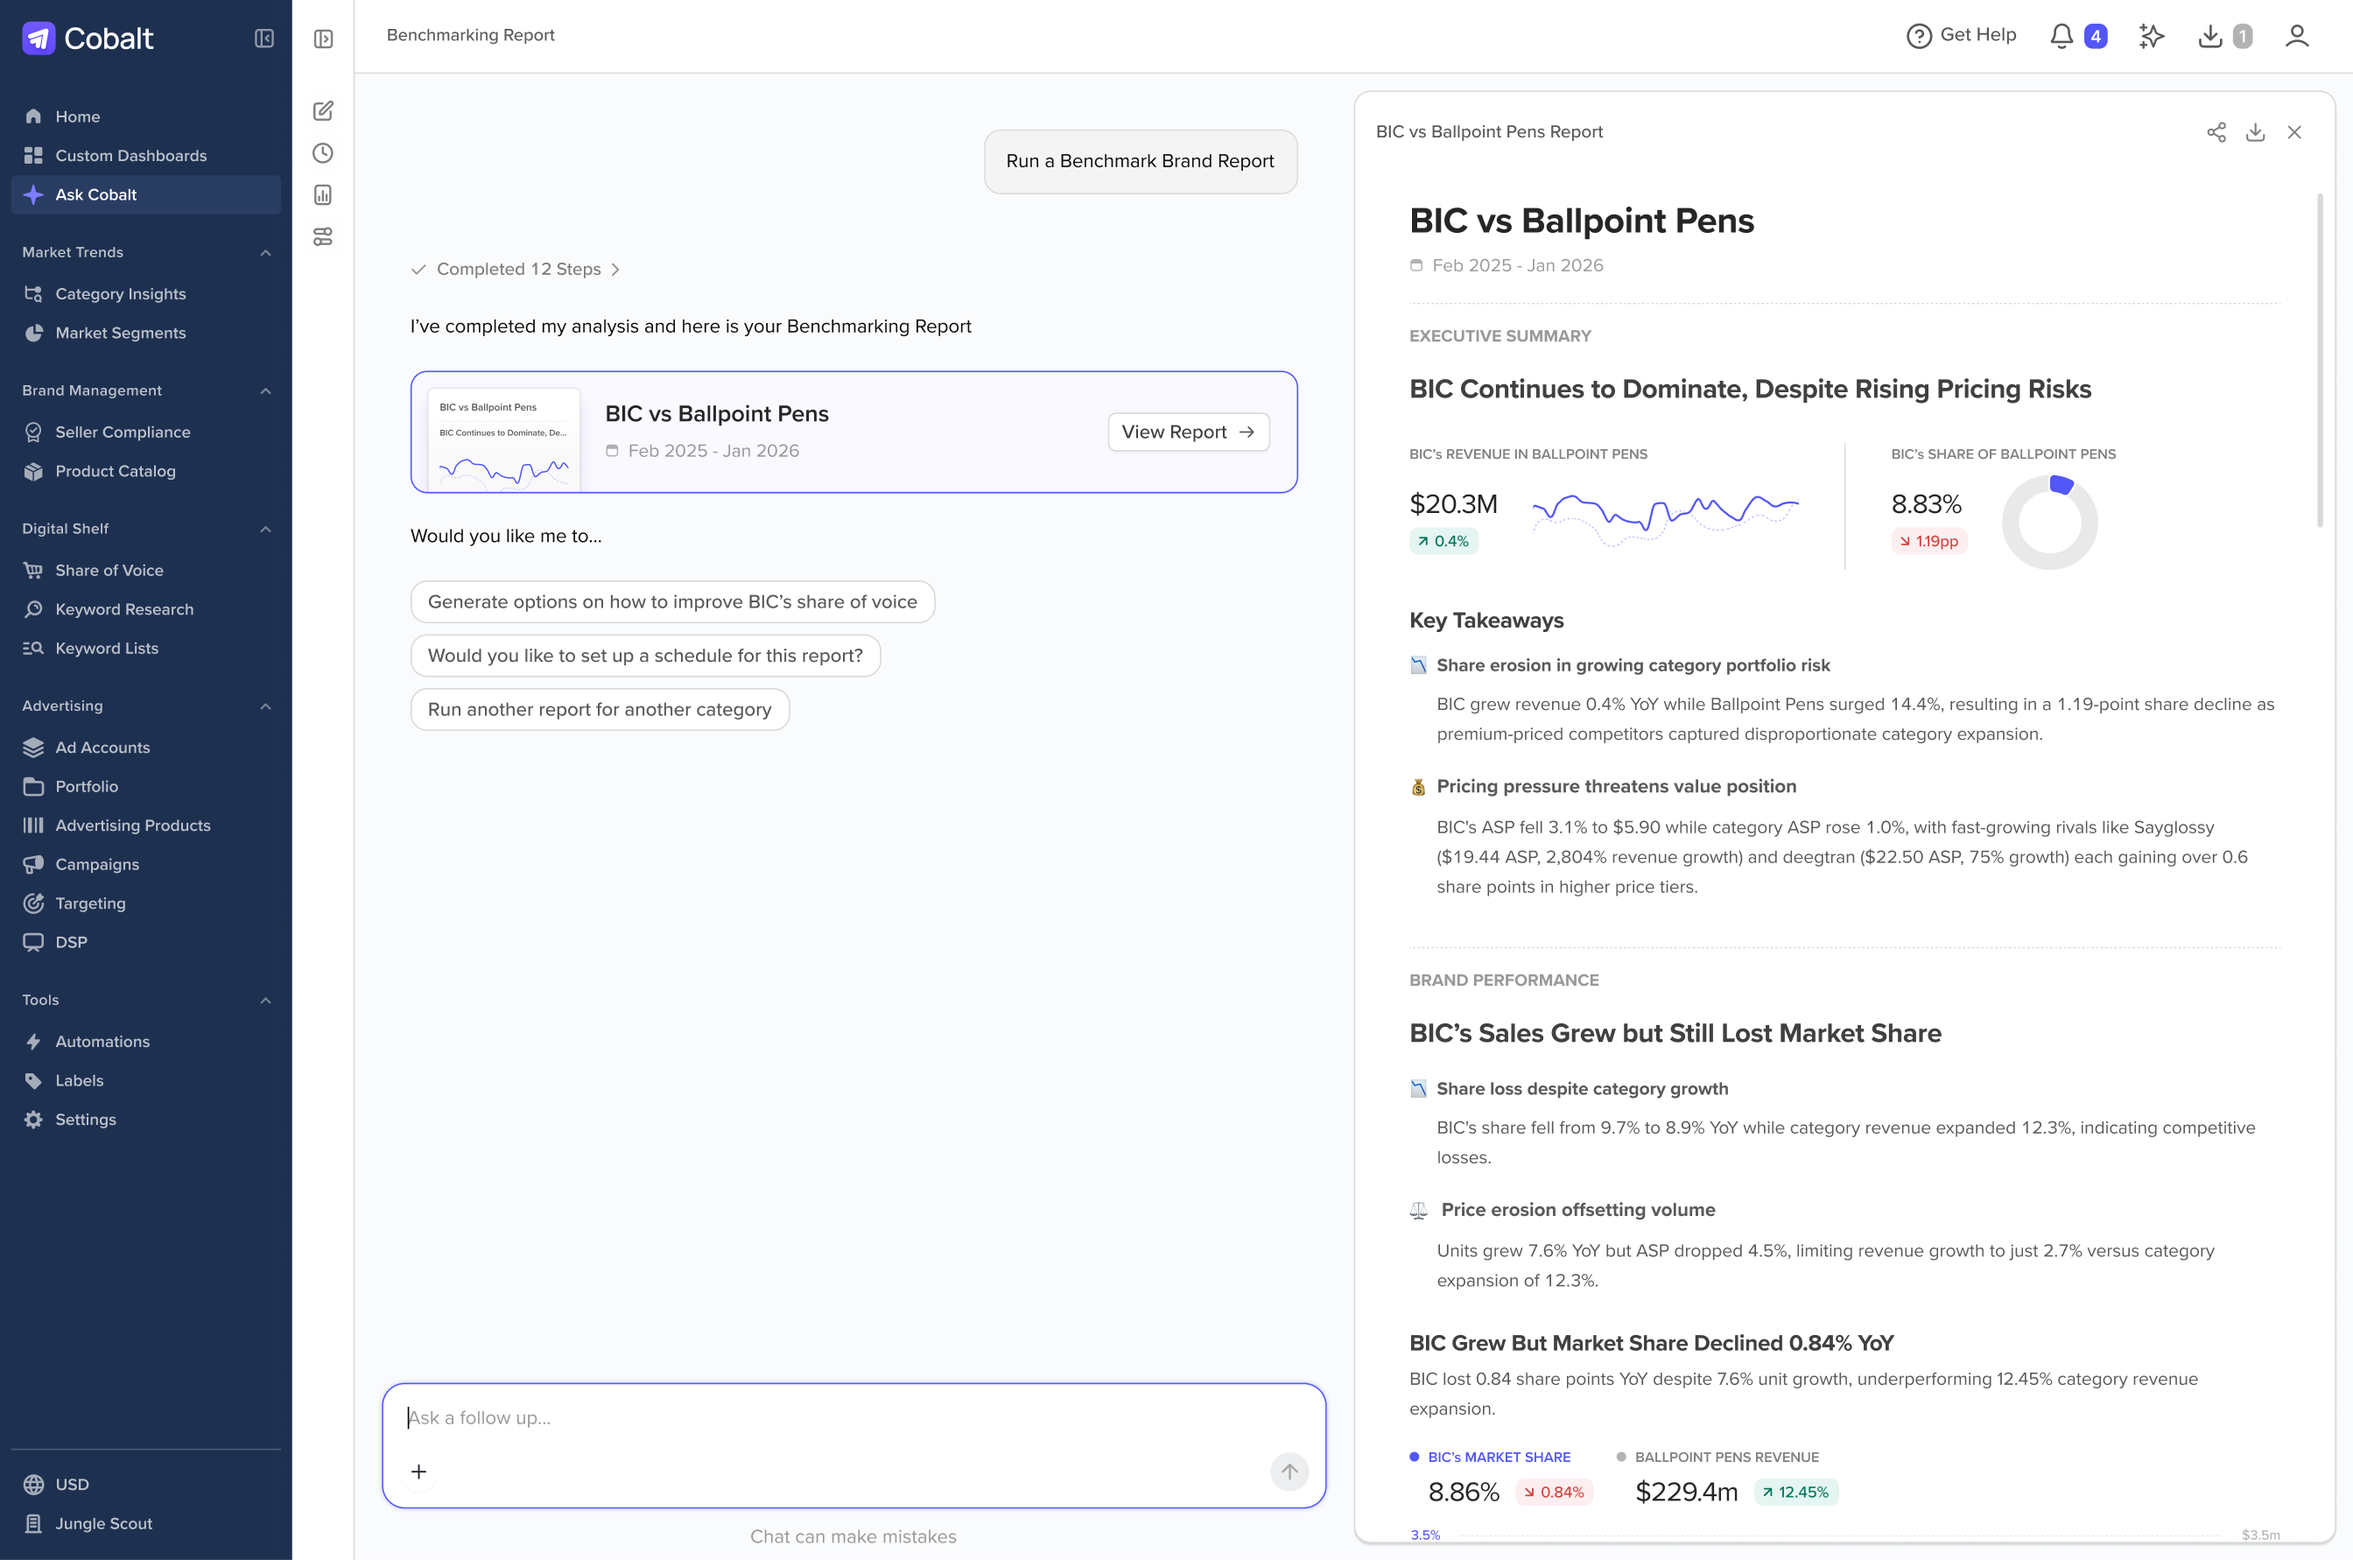
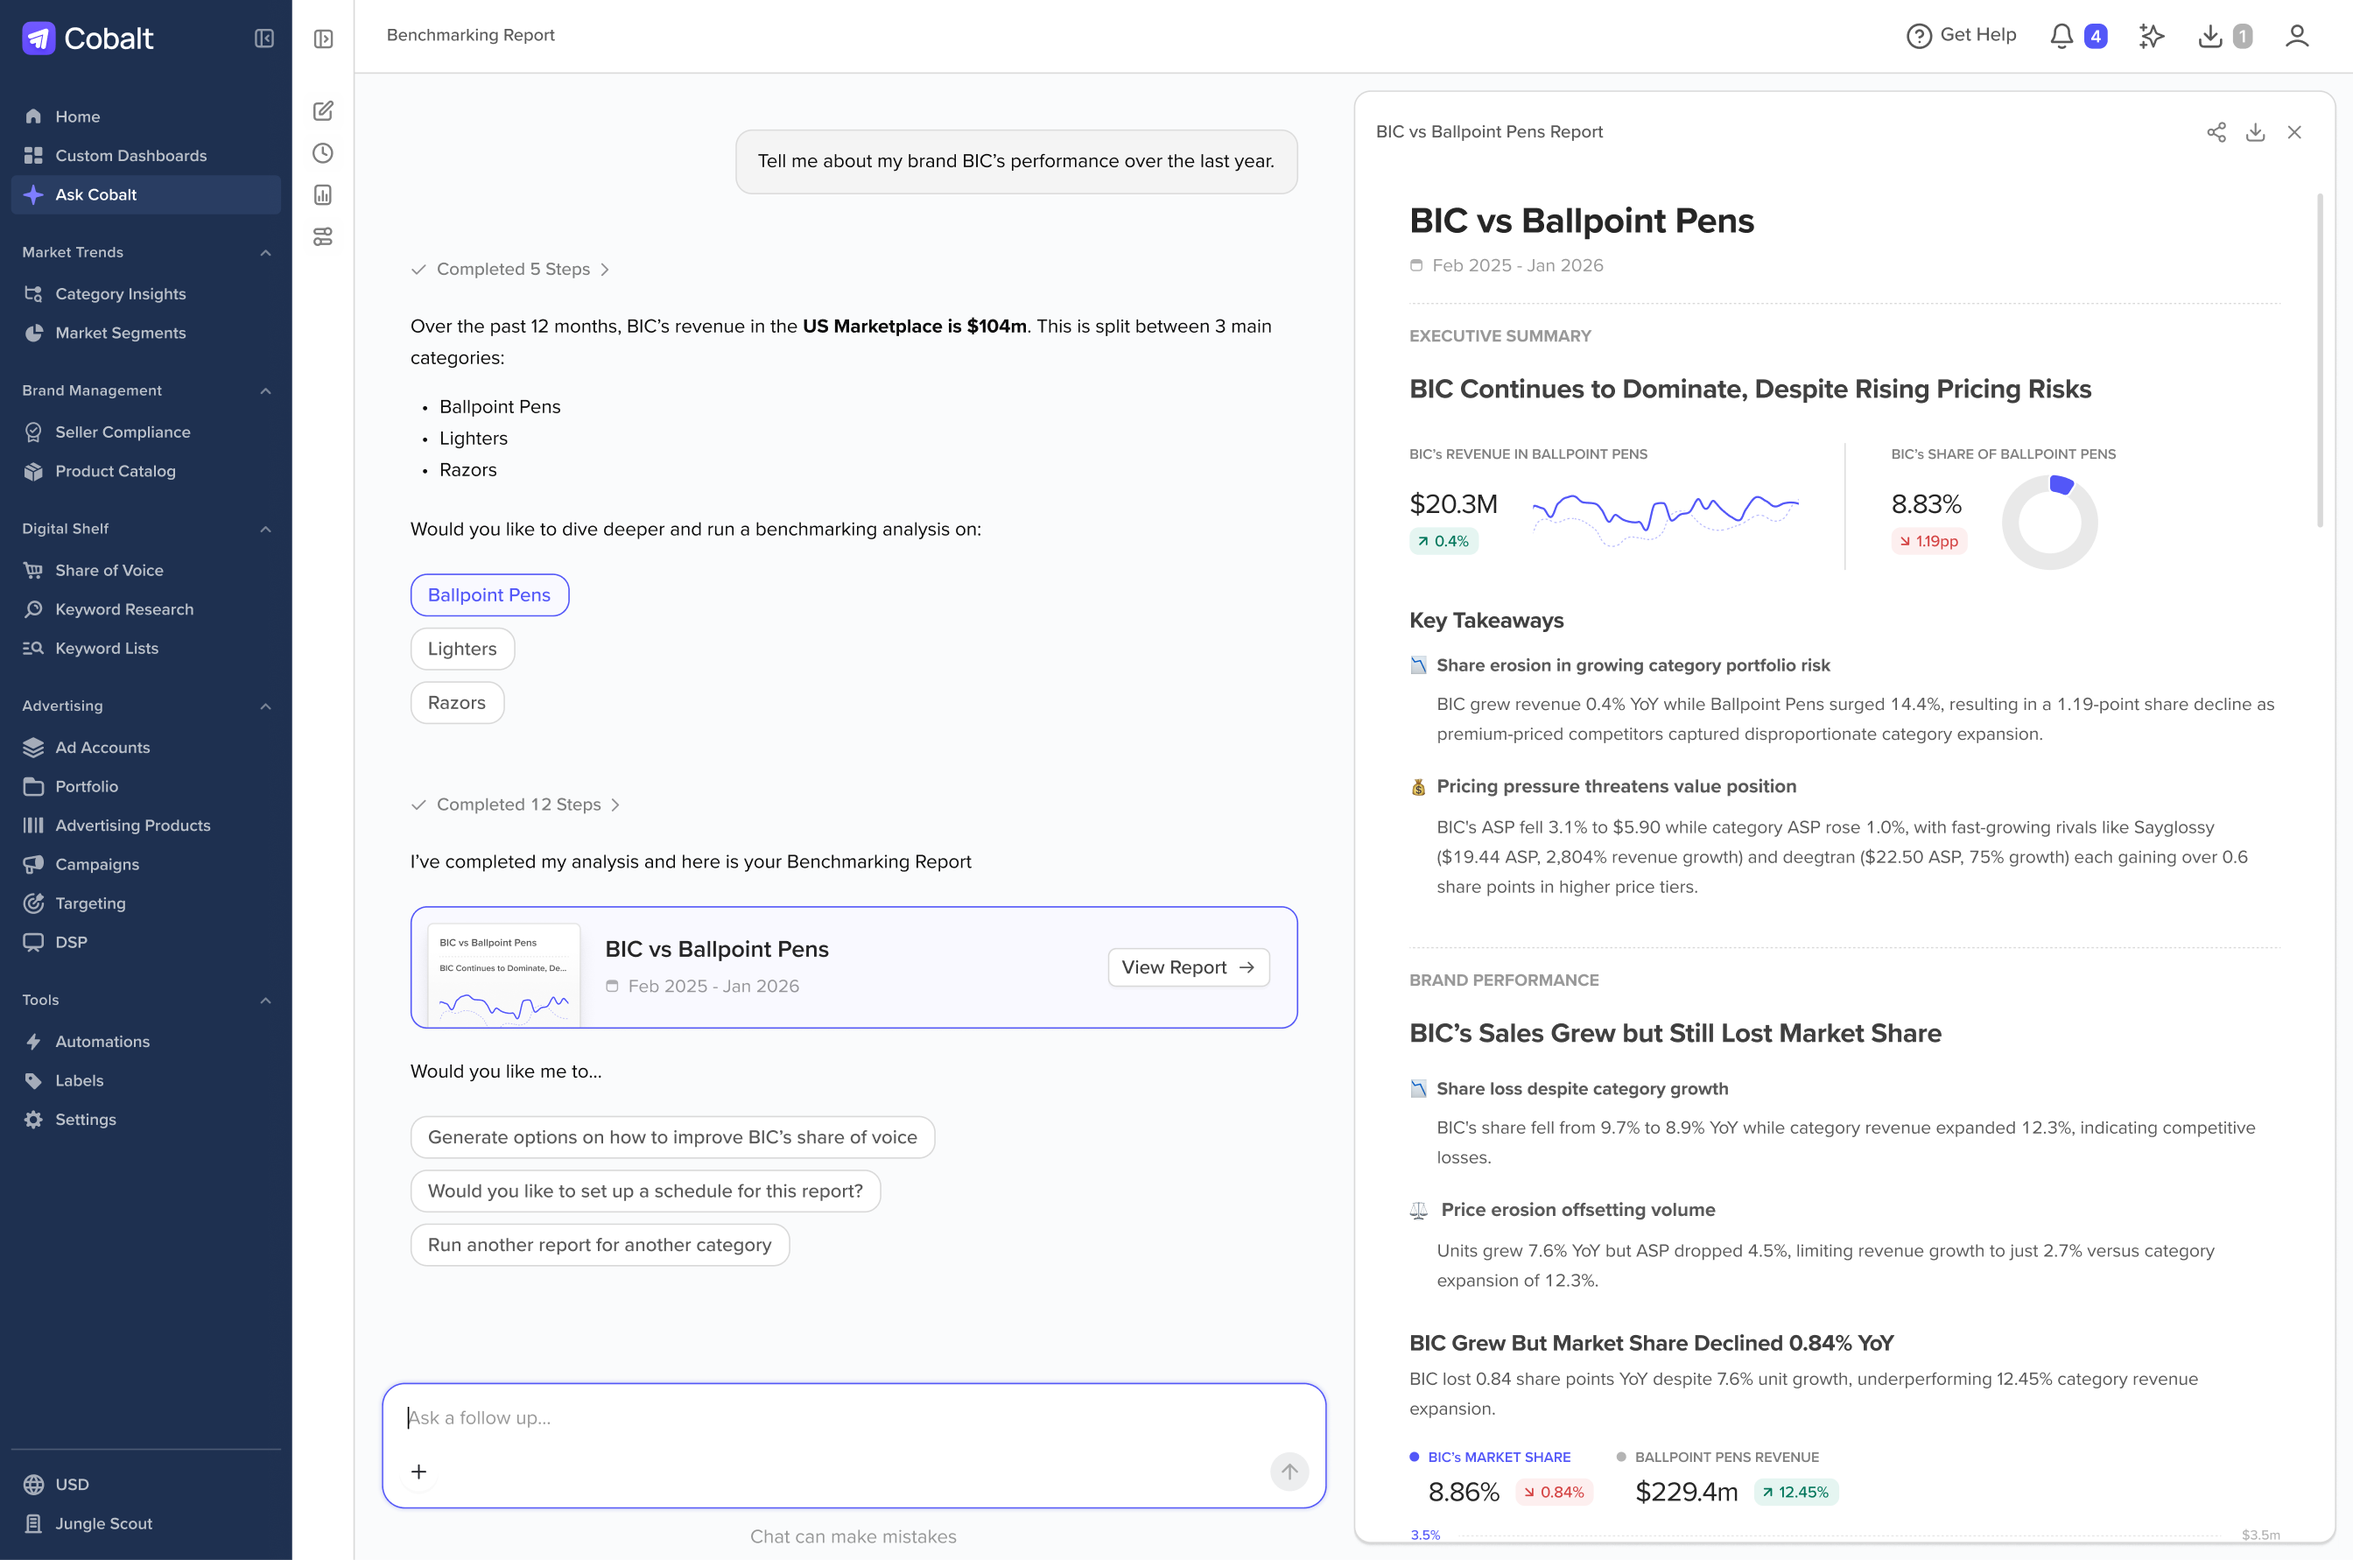
Update the Ask Cobalt case study to match the latest Figma copy and layout.

diff --git a/src/pages/AiAnalystWorkflowsPage.tsx b/src/pages/AiAnalystWorkflowsPage.tsx
@@ -9,6 +9,25 @@ const TEAM = ['John Arstingstall', 'Salim Hamed', 'Ivan Bernatovic']
 const ASSET = '/assets/Ask Cobalt'
 const LIGHTBULB = `${ASSET}/${encodeURIComponent('lightbulb-02.svg')}`
 
+const IA = [
+  {
+    title: 'New Chat',
+    body: 'Trigger to start a new session.',
+  },
+  {
+    title: 'Schedules',
+    body: 'Sessions triggered on a schedule with a saved prompt.',
+  },
+  {
+    title: 'Sessions',
+    body: 'Individual chat conversation linked to a user. The session is saved and can be revisited.',
+  },
+  {
+    title: 'Artifacts',
+    body: 'Any object that is created within a chat session. This could be a PDF report, Excel export, etc. Tied to a user, but is shareable.',
+  },
+] as const
+
 function askAsset(file: string) {
   return `${ASSET}/${encodeURIComponent(file)}`
 }
@@ -21,8 +40,11 @@ function ImpactMetrics({ labelledBy }: { labelledBy?: string }) {
       aria-labelledby={labelledBy}
     >
       <div className="case-study-impact-item">
-        <p className="case-study-impact-value">+75%</p>
-        <p className="case-study-label">New customer closing rate</p>
+        <div className="case-study-impact-value-block">
+          <p className="case-study-impact-value">+75%</p>
+          <p className="case-study-impact-delta">~20% → ~35%</p>
+        </div>
+        <p className="case-study-label">Closing rate improvement</p>
       </div>
       <div className="case-study-impact-item">
         <p className="case-study-impact-value">60%</p>
@@ -174,10 +196,10 @@ export function AiAnalystWorkflowsPage() {
           <section className="case-study-story-block">
             <h2 className="case-study-story-title">First Steps</h2>
             <p className="case-study-text">
-              We explored two paths in parallel: a deterministic experience,
-              where we defined the questions and outputs, and a
-              non-deterministic experience, where customers could ask their own
-              questions.
+              We explored two paths in parallel: a deterministic experience, in
+              which we defined the questions and outputs, and a
+              non-deterministic experience, in which customers could ask their
+              own questions.
             </p>
 
             <div className="case-study-path-stack">
@@ -191,14 +213,14 @@ export function AiAnalystWorkflowsPage() {
                   against their market.
                 </p>
                 <p className="case-study-text">
-                  I designed the structure and visualizations to tell the story
-                  of the data, while AI analyzed and summarized the results into
-                  a digestible report that customers could share with their
-                  teams.
+                  I designed the structure and visualizations to tell the
+                  data&apos;s story, while AI analyzed and summarized the
+                  results into a digestible report that customers could share
+                  with their teams.
                 </p>
                 <p className="case-study-text">
-                  Even though the output was predetermined, designing it was
-                  highly iterative because of the variable nature of LLM
+                  Even though the workflow output was predetermined, the design
+                  process was highly iterative due to the variability of LLM
                   responses. Rather than handing engineering a finished report, I
                   started with a structured outline and iterated on the
                   experience as the underlying functionality came to life.
@@ -222,7 +244,9 @@ export function AiAnalystWorkflowsPage() {
                 <p className="case-study-text">
                   To explore the other direction, an engineer built an early
                   version of a Cobalt MCP that allowed customers to interact
-                  with our data through a chat interface.
+                  with our data through a chat interface. By focusing solely on
+                  the MCP, we could gather user feedback without building our
+                  own chat experience.
                 </p>
                 <p className="case-study-text">
                   We started small, but as soon as we showed it to customers,
@@ -294,16 +318,12 @@ export function AiAnalystWorkflowsPage() {
           </section>
 
           <section className="case-study-story-block">
-            <h2 className="case-study-story-title">Building a chat prototype</h2>
+            <h2 className="case-study-story-title">AI chat beta</h2>
             <p className="case-study-text">
-              I wanted to get the chat experience into customers&apos; hands as
-              quickly as possible so we could learn what they actually wanted
-              from it.
-            </p>
-            <p className="case-study-text">
-              Instead of spending weeks designing every screen and state
-              upfront, I worked closely with an engineer to create a simple chat
-              experience connected to the same data as our MCP.
+              With the goal of releasing a beta version of the asap, I worked
+              closely with an engineer to create a simple chat experience
+              connected to the same data as our MCP, rather than spending weeks
+              designing every screen and state up front.
             </p>
             <p className="case-study-text">
               Once the basic functionality was working, I used Cursor to
@@ -312,18 +332,10 @@ export function AiAnalystWorkflowsPage() {
               than designing against assumptions.
             </p>
             <p className="case-study-text">
-              Together, we turned a rough engineering prototype into a polished
-              beta that we could put in front of customers.
-            </p>
-          </section>
-
-          <section className="case-study-story-block">
-            <h2 className="case-study-story-title">Live chat beta</h2>
-            <p className="case-study-text">
-              The response was immediate. Customers were using the chat to
-              uncover insights they felt they would have missed in the past,
-              while feedback quickly expanded into requests for capabilities
-              like recurring prompts and automated analysis.
+              After launch, the response was immediate. Customers told us they
+              uncovered insights they would have missed in the past. Usage
+              steadily grew, and requests for capabilities like recurring
+              prompts and automated analysis poured in.
             </p>
             <StoryImage
               file="AI Analyst.png"
@@ -331,15 +343,17 @@ export function AiAnalystWorkflowsPage() {
             />
             <p className="case-study-text">
               Usage grew rapidly, with customers who tried the chat consistently
-              returning week after week. But the rapid pace of experimentation
-              had created another problem: Cobalt&apos;s AI experience was
-              becoming fragmented.
+              returning week after week.
+            </p>
+            <p className="case-study-text">
+              But the rapid pace of experimentation had created another problem:{' '}
+              <strong>Cobalt&apos;s AI experience was becoming fragmented.</strong>
             </p>
             <p className="case-study-text">
               We had AI Analyst, where the original deterministic reports lived,
               and Chat existed as a tab within it. Chat couldn&apos;t trigger
-              the reports, and users couldn&apos;t ask follow-up questions about
-              insights in a report.
+              reports, and users couldn&apos;t ask follow-up questions about
+              report insights.
             </p>
             <p className="case-study-text">
               At the same time, we knew we wanted to introduce new concepts like
@@ -356,9 +370,16 @@ export function AiAnalystWorkflowsPage() {
               for how conversations, generated outputs, and scheduled tasks
               should relate to each other:
             </p>
-            <p className="case-study-text">
-              <strong>New Chat → Session → Artifacts</strong>
-            </p>
+            <div className="case-study-ia">
+              <div className="case-study-ia-grid">
+                {IA.map((item) => (
+                  <div key={item.title} className="case-study-ia-col">
+                    <p className="case-study-ia-title">{item.title}</p>
+                    <p className="case-study-ia-text">{item.body}</p>
+                  </div>
+                ))}
+              </div>
+            </div>
             <p className="case-study-text">
               From there, I worked through the experience to make sure the
               interaction patterns, terminology, context, and copy were
@@ -403,12 +424,14 @@ export function AiAnalystWorkflowsPage() {
             </h2>
             <ImpactMetrics labelledBy="ask-cobalt-outcome" />
             <p className="case-study-text">
-              Since launching Ask Cobalt, we saw our{' '}
+              Since launching Ask Cobalt, we have seen our{' '}
               <strong>new account close rate jump from ~20% to ~35%</strong>,
-              users average{' '}
-              <strong>3.2 chat sessions per week per user</strong> indicating
-              stickiness, and AI tools now account for{' '}
-              <strong>60%+ of new customer purchase reasons</strong>.
+              and AI tools now account for{' '}
+              <strong>60%+ of new customer purchase reasons</strong> because
+              prospects can see the value of Cobalt more quickly and easily in
+              the sales process. We also saw that users started an average of{' '}
+              <strong>3.2 chat sessions per week per user</strong>, indicating
+              stickiness.
             </p>
             <p className="case-study-text">
               Ask Cobalt was unlike any product I had worked on before.
@@ -419,9 +442,9 @@ export function AiAnalystWorkflowsPage() {
             <p className="case-study-text">
               More importantly, it changed how I think about the relationship
               between design and development. Rather than designing everything
-              upfront and handing it off, I increasingly worked alongside
-              engineering, using prototypes, code, and real customer feedback to
-              shape the product together.
+              up front and handing it off, I increasingly worked alongside
+              engineering teams, using prototypes, code, and real customer
+              feedback to shape the product together.
             </p>
             <p className="case-study-text">
               <strong>

diff --git a/src/pages/AiAnalystWorkflowsPage.css b/src/pages/AiAnalystWorkflowsPage.css
@@ -4,6 +4,18 @@
   gap: 12px;
 }
 
+.case-study-impact--ask .case-study-impact-value-block {
+  gap: 3px;
+}
+
+.case-study-impact-delta {
+  margin: 0;
+  font-size: 19px;
+  font-weight: 500;
+  line-height: 1.2;
+  color: rgba(0, 0, 0, 0.6);
+}
+
 .case-study-story--ask .case-study-text + .case-study-text {
   margin-top: 2em;
 }
@@ -36,6 +48,50 @@
   flex-shrink: 0;
 }
 
+.case-study-ia {
+  display: flex;
+  width: 100%;
+  padding: 12px 0;
+}
+
+.case-study-ia-grid {
+  display: flex;
+  align-items: stretch;
+  width: 100%;
+  min-height: 192px;
+  border: 1px solid rgba(0, 0, 0, 0.1);
+  border-radius: 20px;
+  overflow: hidden;
+}
+
+.case-study-ia-col {
+  display: flex;
+  flex: 1;
+  flex-direction: column;
+  min-width: 0;
+  padding: 20px;
+}
+
+.case-study-ia-col + .case-study-ia-col {
+  border-left: 1px solid rgba(0, 0, 0, 0.1);
+}
+
+.case-study-ia-title {
+  margin: 0;
+  font-size: 16px;
+  font-weight: 700;
+  line-height: 2;
+  color: rgba(0, 0, 0, 0.8);
+}
+
+.case-study-ia-text {
+  margin: 0;
+  font-size: 12px;
+  font-weight: 400;
+  line-height: 2;
+  color: rgba(0, 0, 0, 0.8);
+}
+
 .case-study-media--focus.case-study-media--ask-hero {
   aspect-ratio: 2688 / 1782;
   border-radius: 20px;
@@ -48,5 +104,17 @@
 @media (max-width: 900px) {
   .case-study-media--focus.case-study-media--ask-hero {
     aspect-ratio: 2688 / 1782;
+  }
+}
+
+@media (max-width: 700px) {
+  .case-study-ia-grid {
+    flex-direction: column;
+    min-height: 0;
+  }
+
+  .case-study-ia-col + .case-study-ia-col {
+    border-left: none;
+    border-top: 1px solid rgba(0, 0, 0, 0.1);
   }
 }
